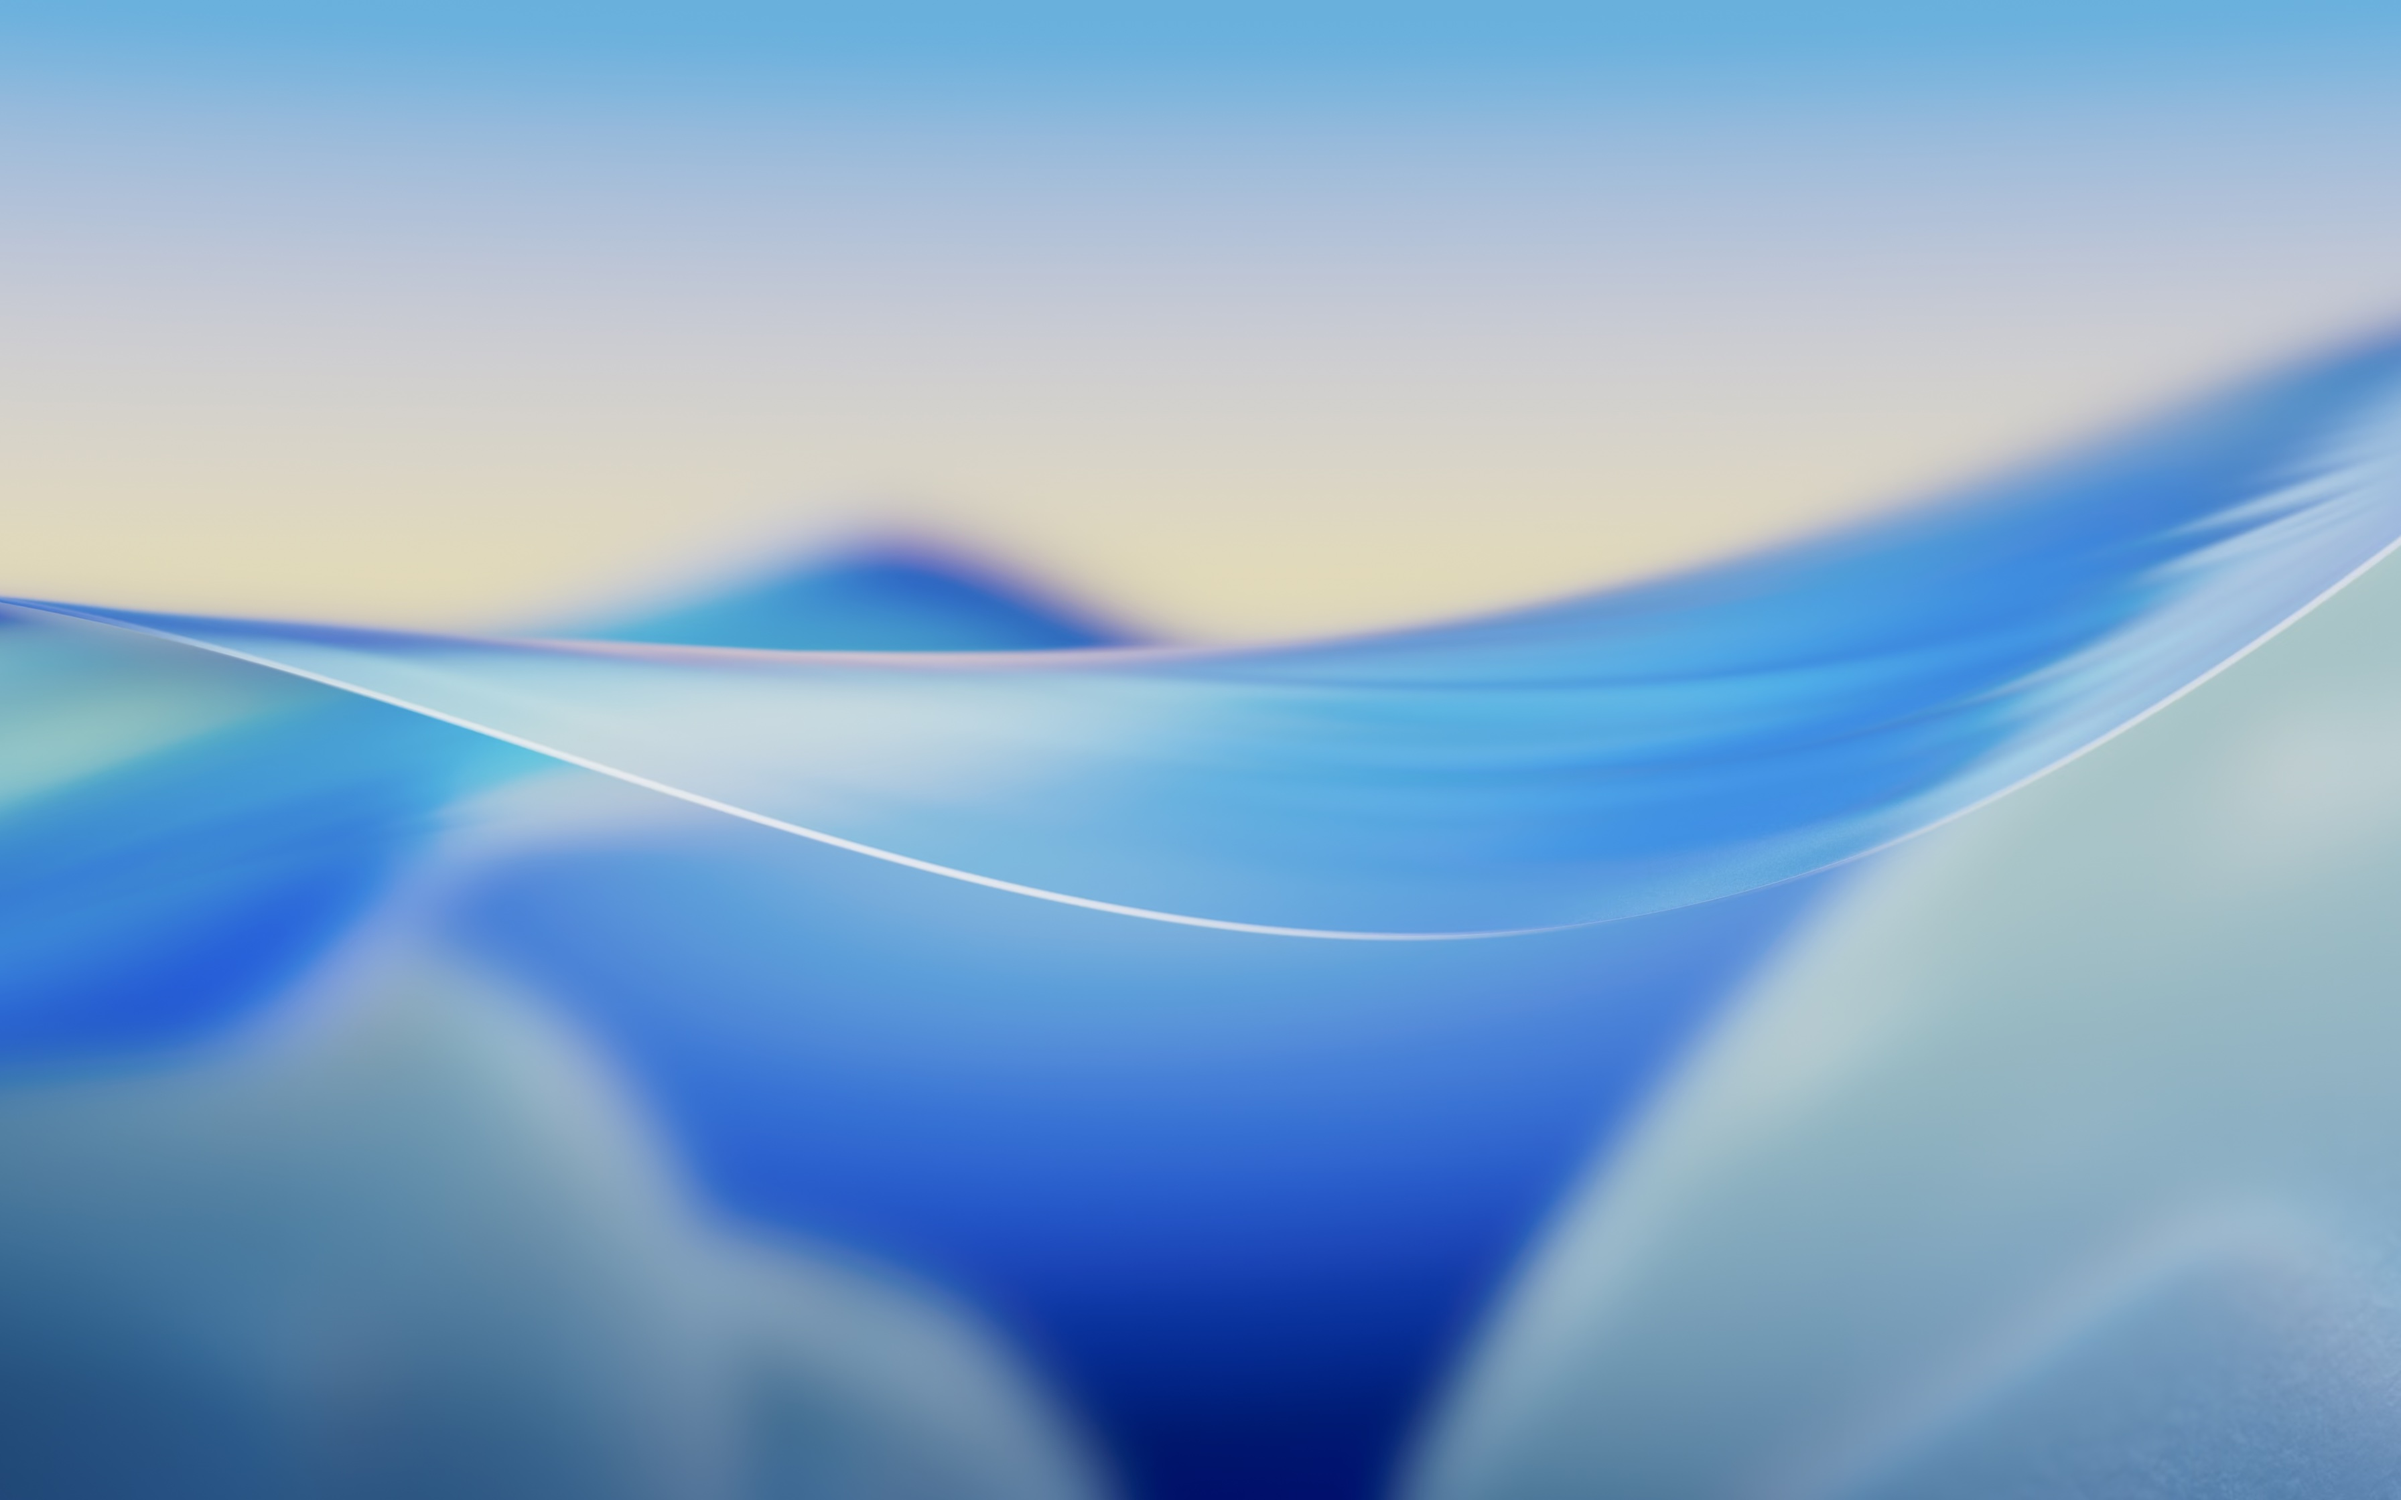
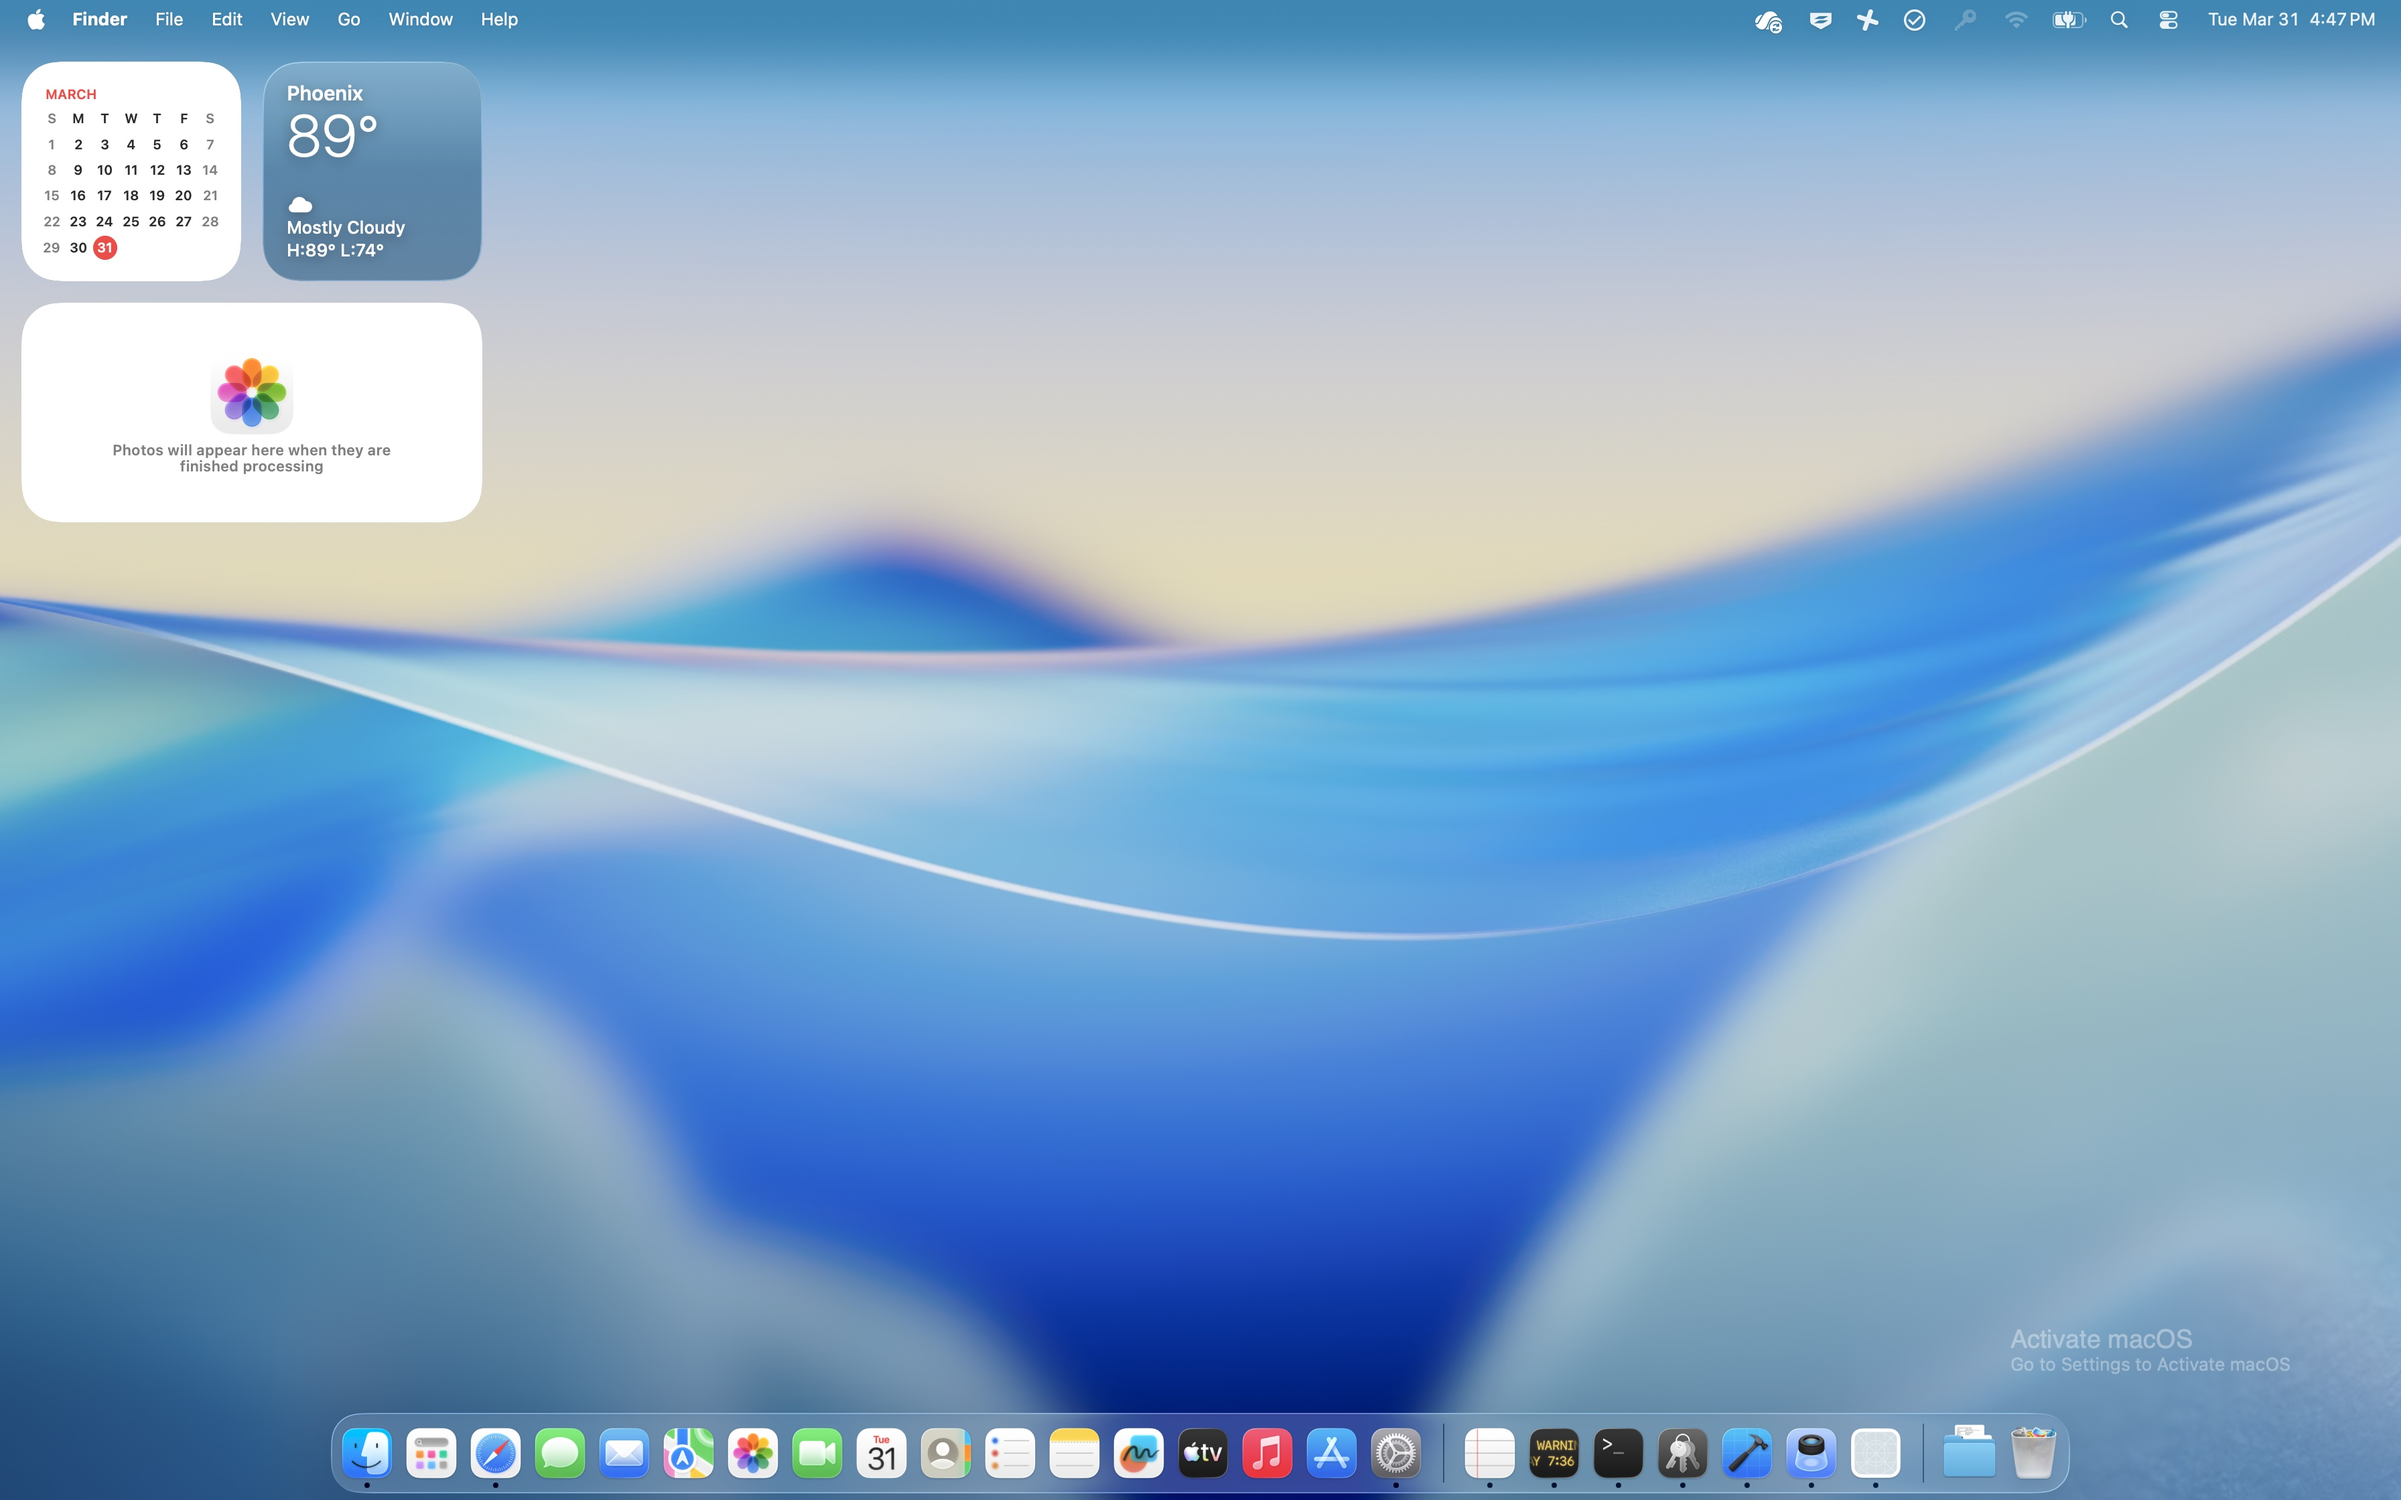
Take a screenshot with the app showing

Changed region(s): [[0.0, 0.0, 1.0, 0.375], [0.125, 0.9375, 0.875, 1.0], [0.8438, 0.875, 0.9062, 0.9062]]

diff --git a/README.md b/README.md
@@ -1,2 +1,3 @@
-Inspired by AlexStrNik's activate-macos (https://github.com/AlexStrNik/activate-macos), but without the heft of Electon
+Inspired by AlexStrNik's activate-macos (https://github.com/AlexStrNik/activate-macos), but without the heft of Electron
 
+![Screenshot of the exciting action](Screenshot.jpg)
